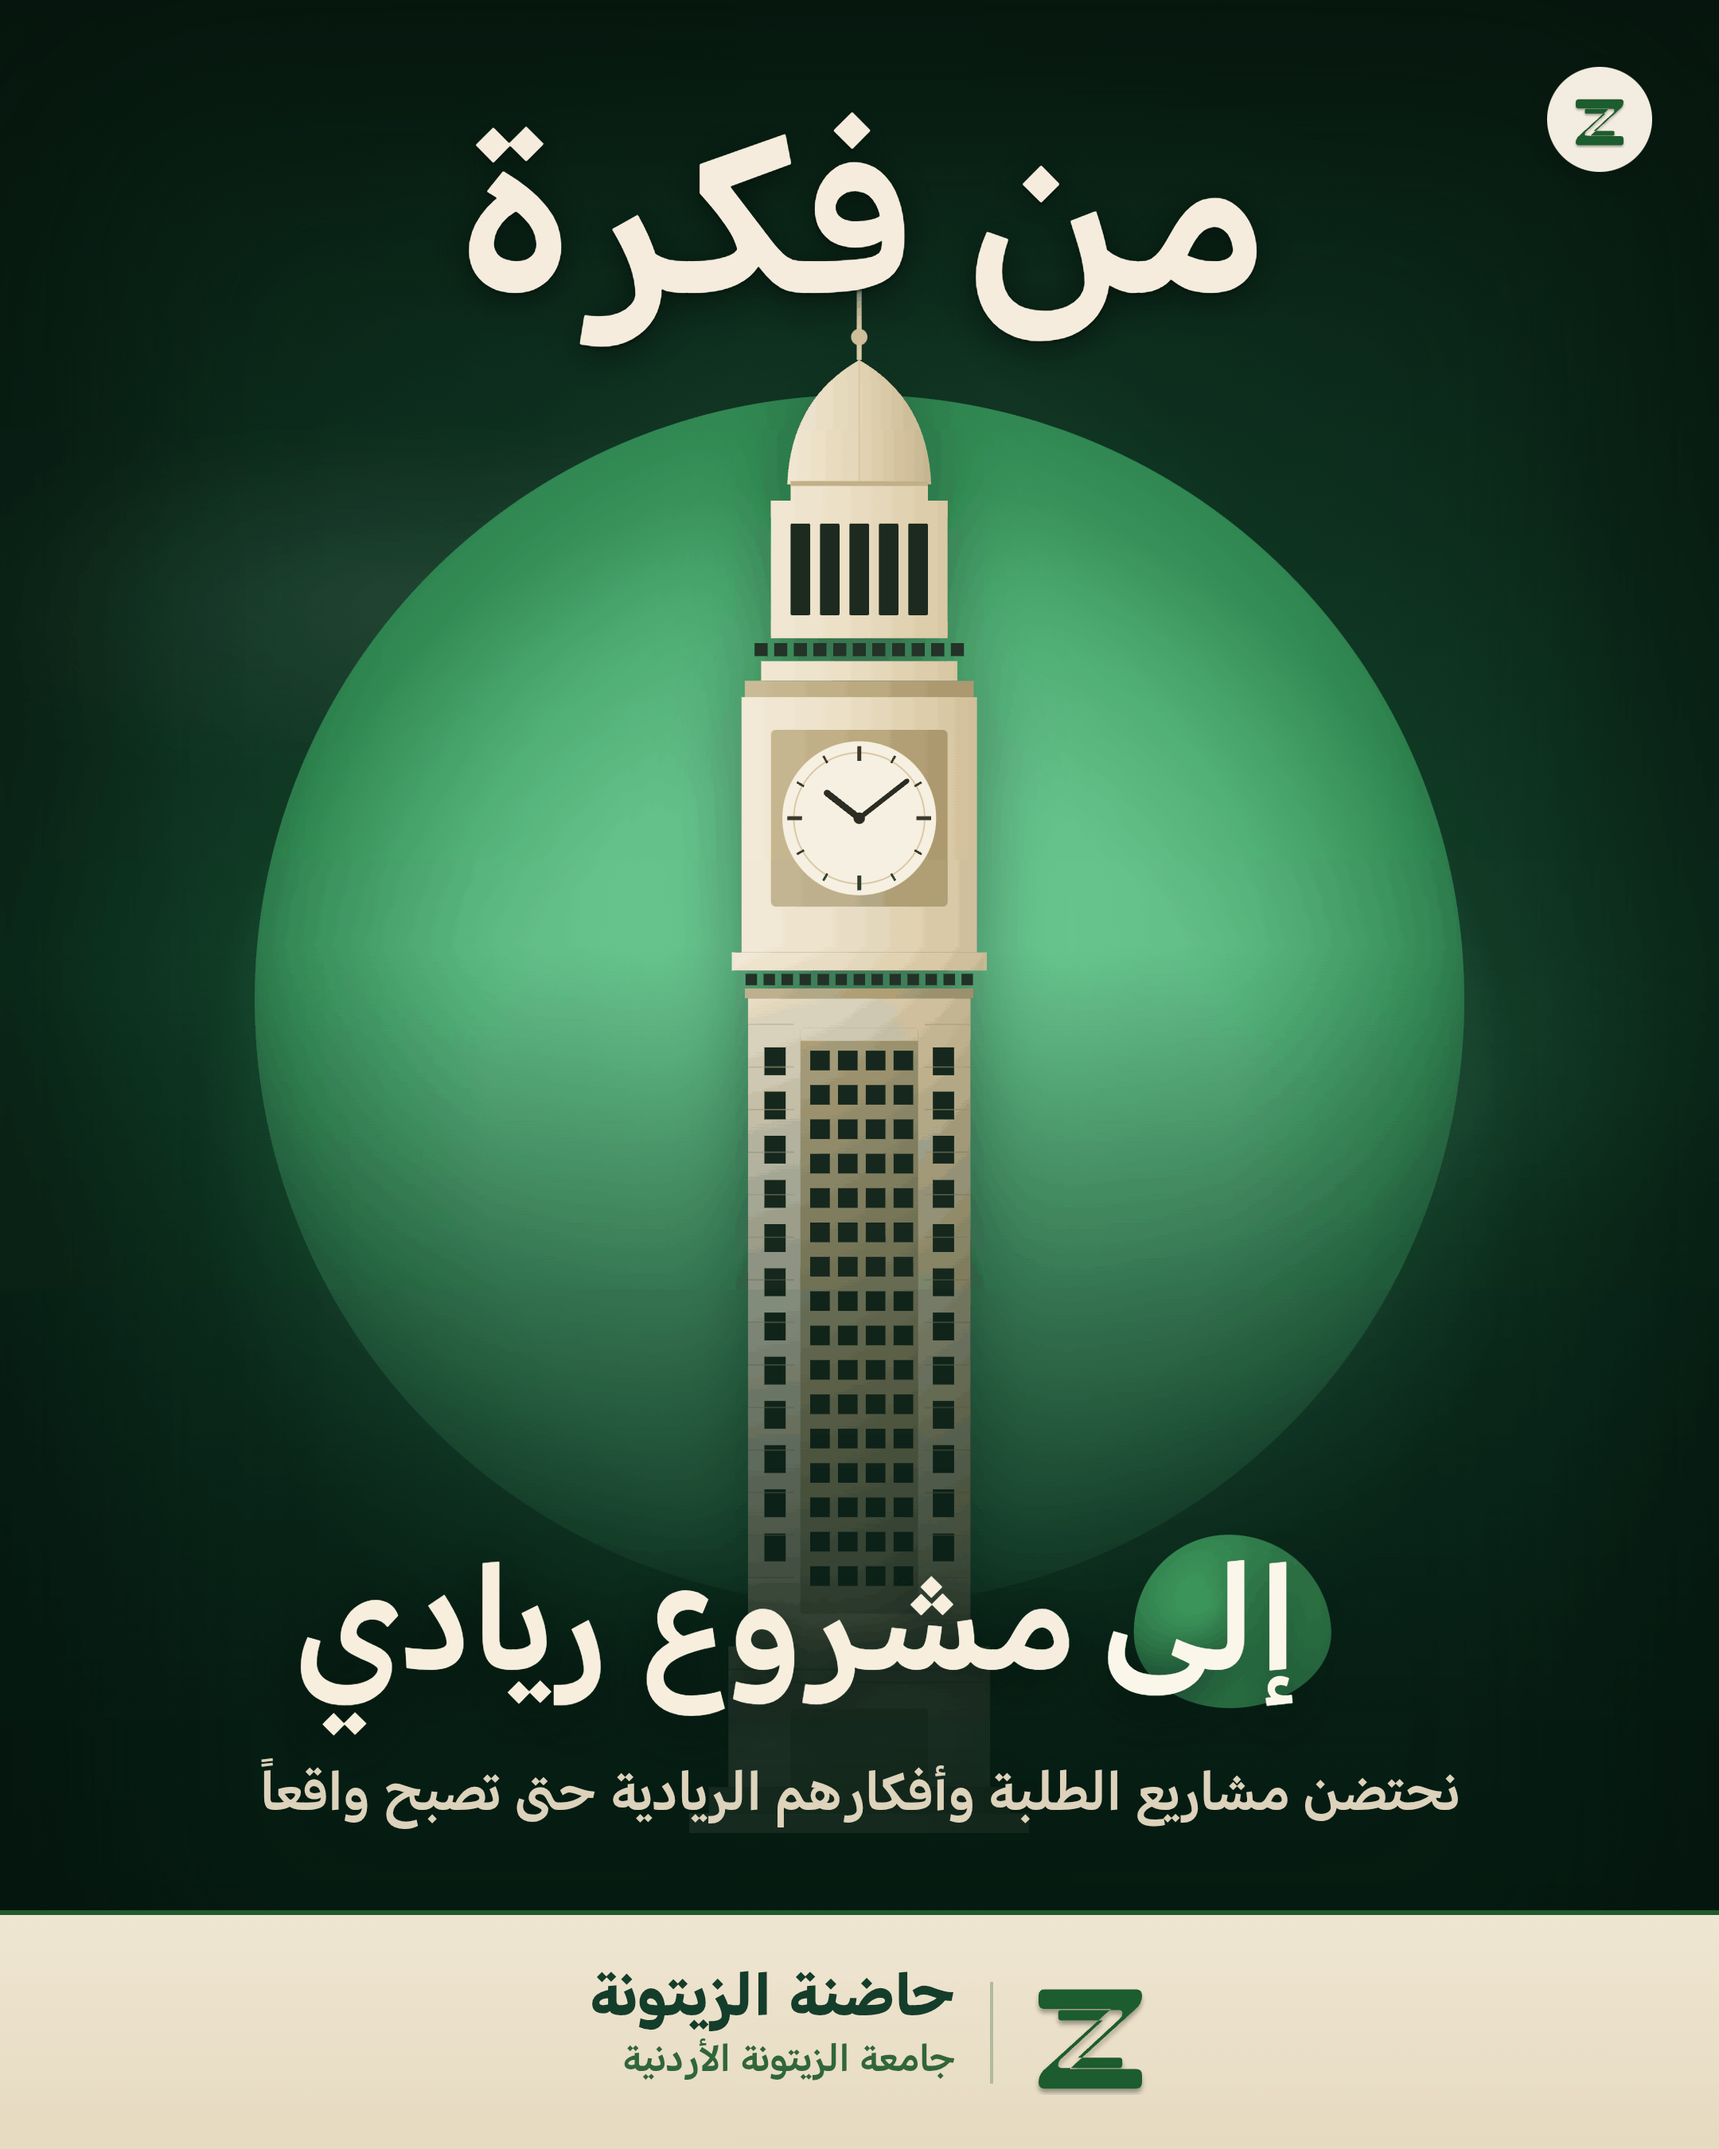
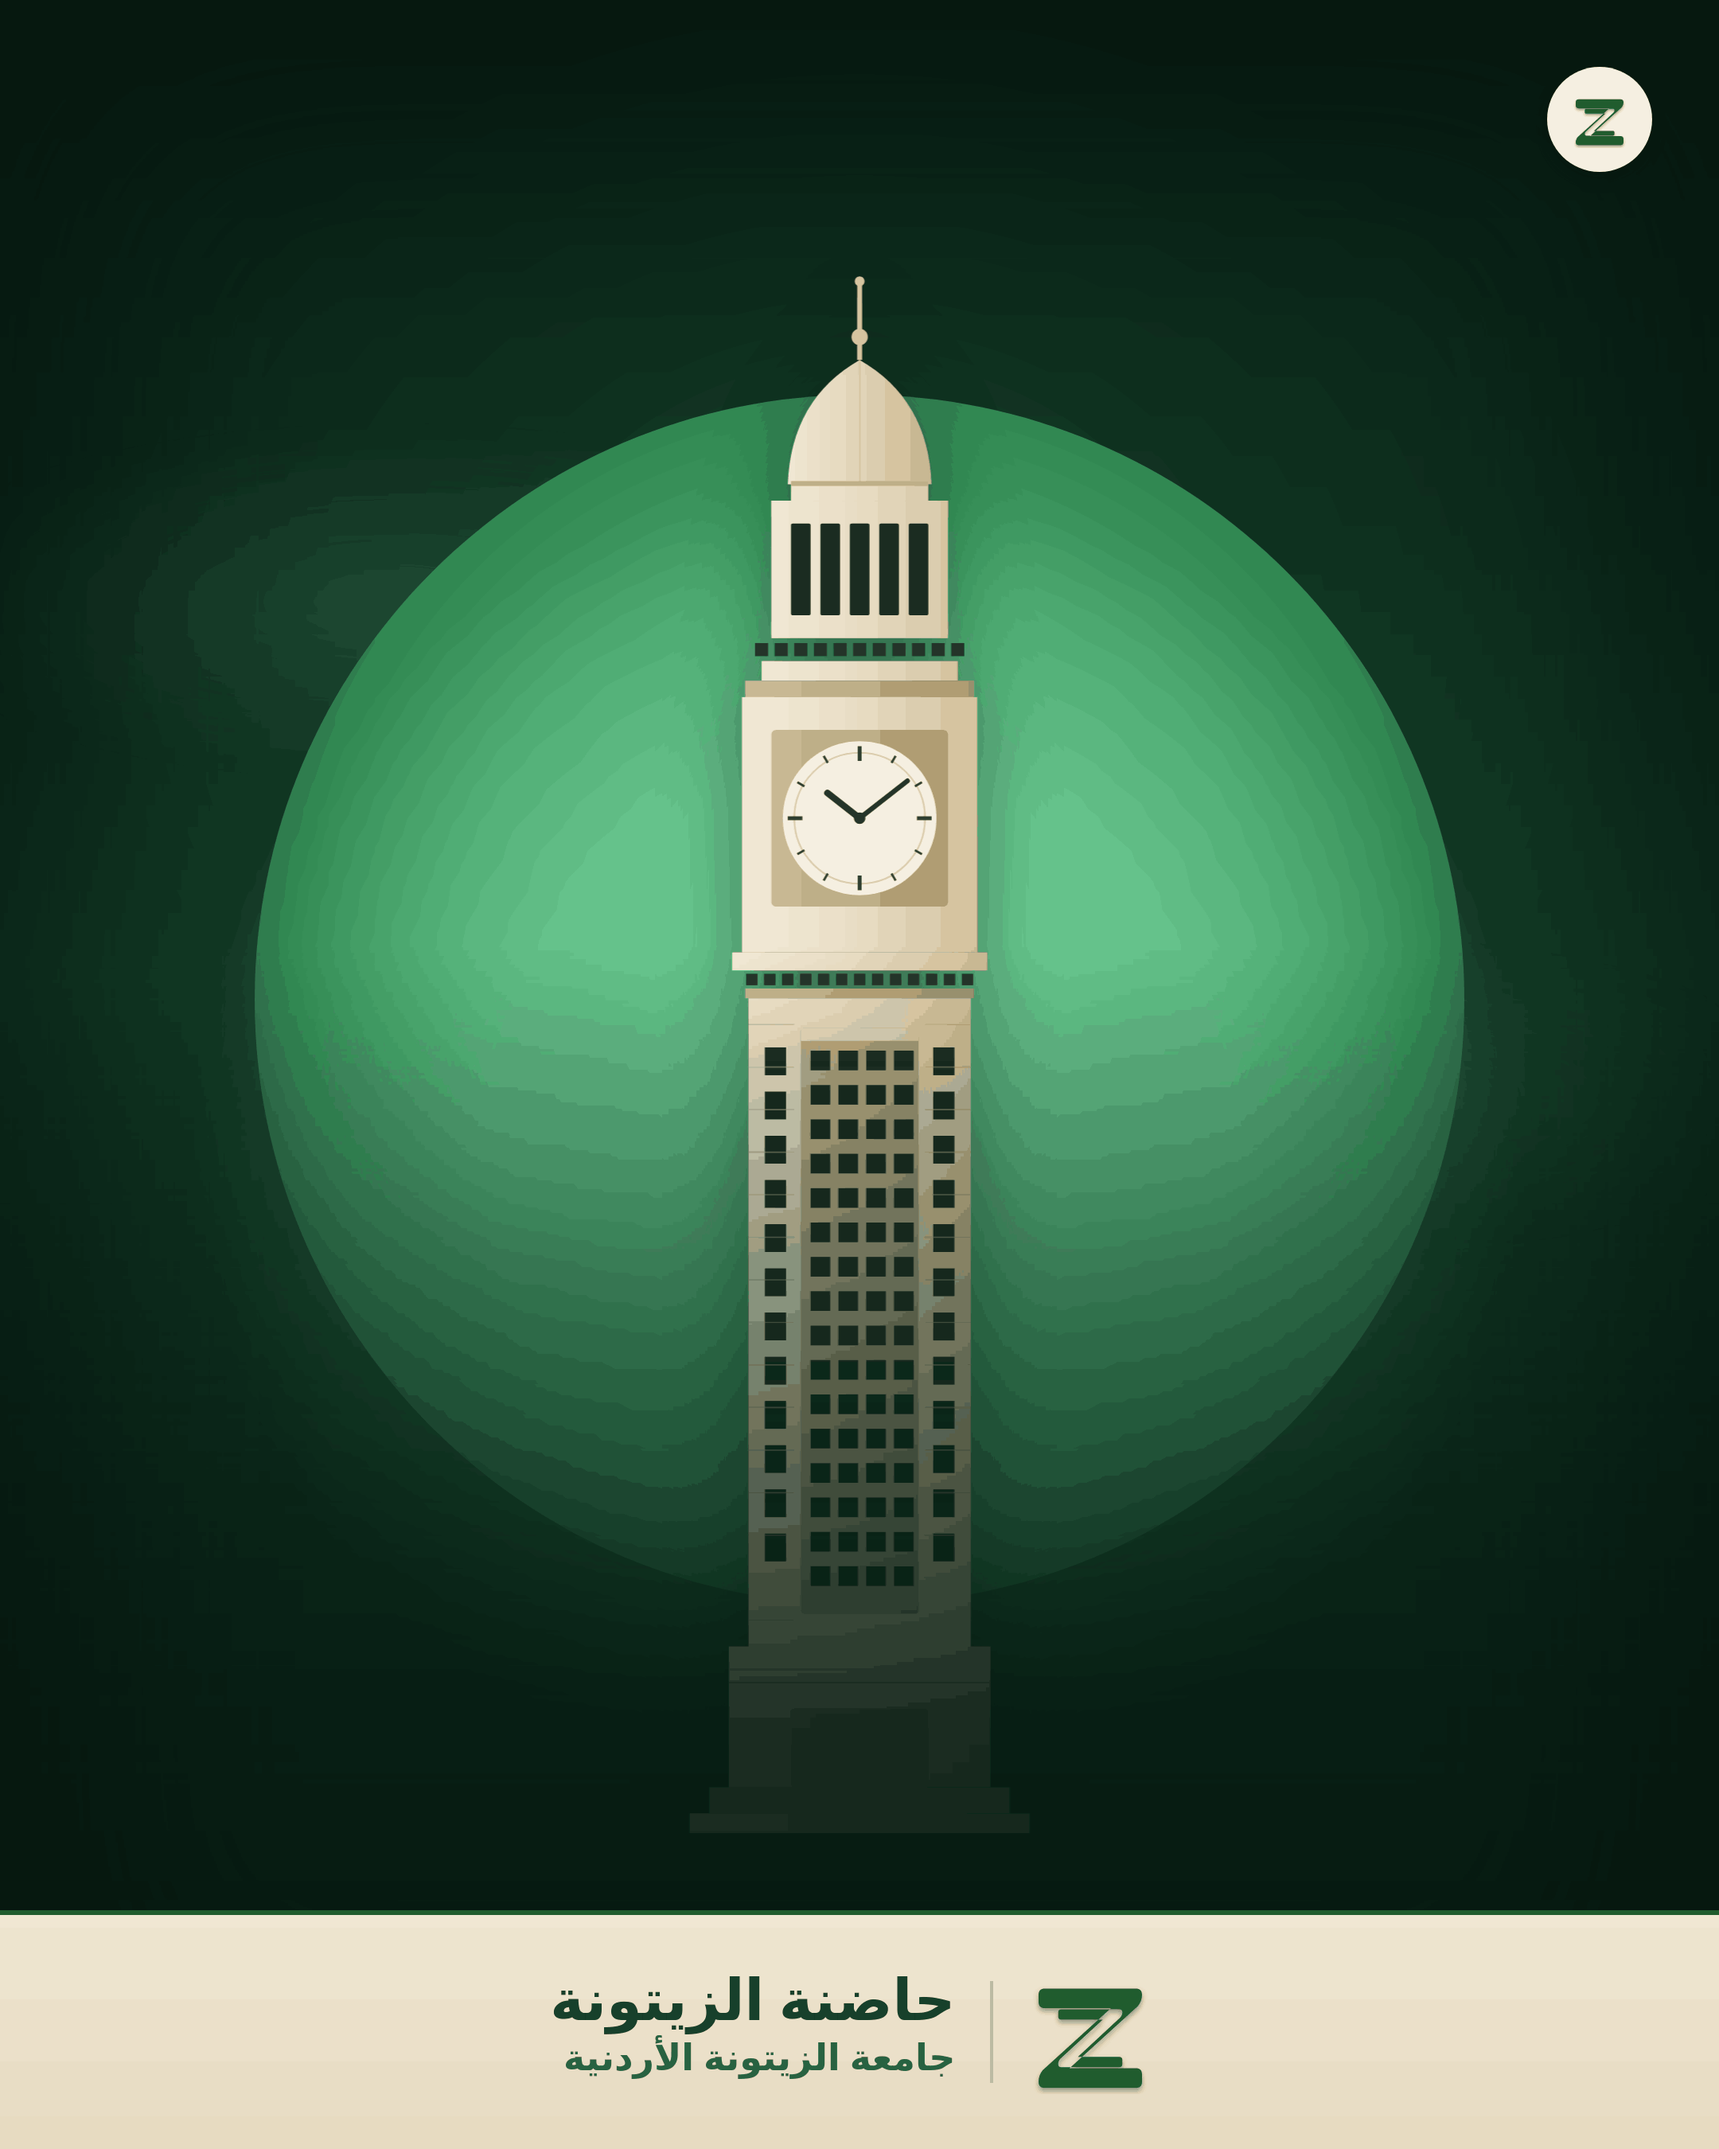
feat(web): replace about-section photo with incubator clock-tower poster

diff --git a/packages/web/src/features/landing/components/AboutSection.tsx b/packages/web/src/features/landing/components/AboutSection.tsx
@@ -50,7 +50,7 @@ export default function AboutSection() {
         {/* Header — image + text two-column */}
         <div className="grid grid-cols-1 lg:grid-cols-2 gap-8 lg:gap-16 items-center mb-16">
           {/* Image column */}
-          <div className="relative w-full aspect-[4/5] rounded-[2rem] overflow-hidden ring-1 ring-foreground/10 shadow-2xl shadow-primary/10 group">
+          <div className="relative w-full max-w-md mx-auto lg:max-w-none aspect-[4/5] rounded-[2rem] overflow-hidden ring-1 ring-foreground/10 shadow-2xl shadow-primary/10 group">
             <div
               aria-hidden
               className="absolute -top-12 -right-12 w-40 h-40 rounded-full blur-2xl transition-all duration-500 group-hover:scale-150 z-10"
@@ -63,15 +63,10 @@ export default function AboutSection() {
             />
             <Image
               src="/incubator-poster.png"
-              alt="بوستر حاضنة الزيتونة"
+              alt="ملصق حاضنة الزيتونة - برج ساعة جامعة الزيتونة الأردنية"
               fill
               className="object-cover transition-transform duration-700 group-hover:scale-105"
               sizes="(max-width: 1024px) 100vw, 50vw"
-            />
-            {/* Soft gradient overlay for legibility / depth */}
-            <div
-              aria-hidden
-              className="absolute inset-x-0 bottom-0 h-1/3 bg-gradient-to-t from-foreground/30 to-transparent pointer-events-none z-[5]"
             />
           </div>
 
